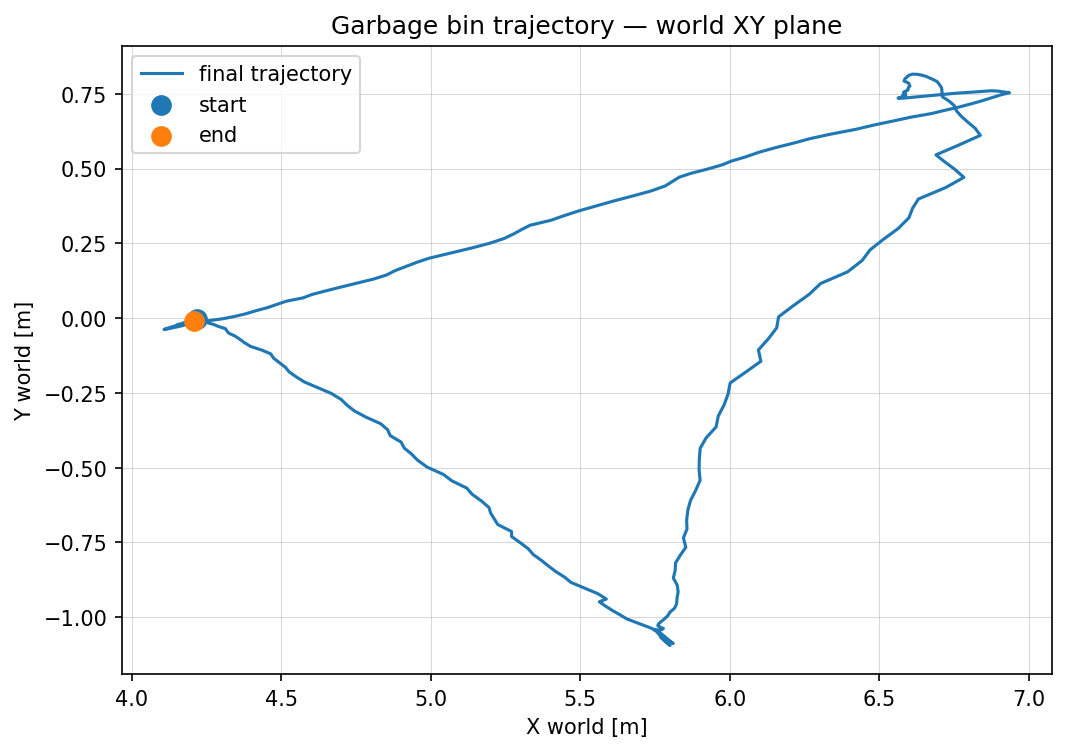
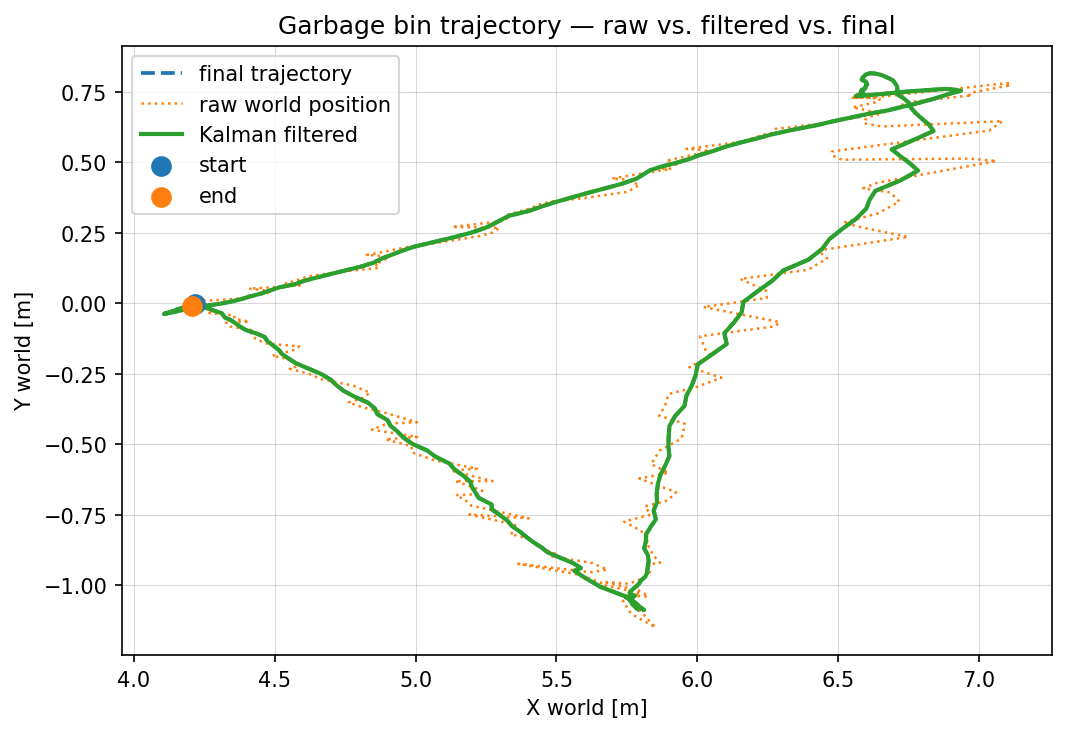
kalman works_

diff --git a/track_bin.py b/track_bin.py
@@ -195,7 +195,7 @@ class PositionKalman:
 
     def __init__(self, dt: float = 1/30,
                  process_var: float = 2e-3,  # Q, process noise. lower Q means motion is smooth
-                 meas_var: float = 7e-2):    # R, measuremtn noise, higher R means measuremetns are noisy
+                 meas_var: float = 7e-2):    # R, measurement noise, higher R means measuremetns are noisy
         self.dt = dt
 
         # state vector: [x, y, z, vx, vy, vz]
@@ -335,6 +335,7 @@ def main():
 
     import os
     os.makedirs(os.path.dirname(args.output) or ".", exist_ok=True)
+    jitter_txt_path = os.path.join(os.path.dirname(args.output) or ".", "jitter_analysis.txt")
 
     trajectory = []
     raw_trajectory = []
@@ -494,12 +495,22 @@ def main():
 
     _save_trajectory_plot(trajectory, raw_trajectory, filtered_trajectory)
     print(f"\nDone. Results: {args.output}  |  trajectory.png")
+
     raw_std_x, raw_std_y = compute_jitter(raw_trajectory)
     filt_std_x, filt_std_y = compute_jitter(filtered_trajectory)
 
-    print("\nJITTER ANALYSIS:")
-    print(f"Raw   std: x={raw_std_x:.4f}, y={raw_std_y:.4f}")
-    print(f"Kalman std: x={filt_std_x:.4f}, y={filt_std_y:.4f}")
+    jitter_report = (
+        "JITTER ANALYSIS:\n"
+        f"Raw   std: x={raw_std_x:.4f}, y={raw_std_y:.4f}\n"
+        f"Kalman std: x={filt_std_x:.4f}, y={filt_std_y:.4f}\n"
+    )
+
+    print("\n" + jitter_report, end="")
+
+    with open(jitter_txt_path, "w") as f:
+        f.write(jitter_report)
+
+    print(f"Jitter analysis saved to {jitter_txt_path}")
 
 
 
@@ -508,56 +519,49 @@ def main():
 def _save_trajectory_plot(trajectory: list,
                           raw_trajectory: list | None = None,
                           filtered_trajectory: list | None = None):
-    
     """
-    Generate top-down 2D plot of bin trajectory in world XY plane.
-    Mark the 3 stop positions. Save as trajectory.png.
-    Load waypoints.json if available to overlay tape marker positions.
+    Generate one top-down 2D plot in world XY plane.
+    Save only trajectory.png, containing:
+      - final trajectory
+      - raw trajectory
+      - Kalman filtered trajectory
+      - start/end markers
     """
-
     import matplotlib.pyplot as plt
 
     if not trajectory:
         print("No trajectory data — skipping plot.")
         return
 
-    xs, ys = zip(*trajectory)
     fig, ax = plt.subplots(figsize=(8, 6))
-    ax.plot(xs, ys, linewidth=1.5, label="final trajectory")
+
+    # final output trajectory (includes occlusion predictions if any)
+    xs, ys = zip(*trajectory)
+    ax.plot(xs, ys, linestyle="--", linewidth=1.8, label="final trajectory")
+
+    # raw → dotted
+    if raw_trajectory:
+        rx, ry = zip(*raw_trajectory)
+        ax.plot(rx, ry, linestyle=":", linewidth=1.2, label="raw world position")
+
+    # Kalman → solid
+    if filtered_trajectory:
+        fx, fy = zip(*filtered_trajectory)
+        ax.plot(fx, fy, linewidth=2.0, label="Kalman filtered")
+
     ax.scatter(xs[0], ys[0], s=80, zorder=5, label="start")
     ax.scatter(xs[-1], ys[-1], s=80, zorder=5, label="end")
 
-    # If you have estimated waypoint world coordinates, plot them here:
-    # estimated_stops = [(x1,y1), (x2,y2), (x3,y3)]
-    # ax.scatter(*zip(*estimated_stops), s=140, marker='*',
-    #            color='orange', zorder=6, label='estimated GT stops')
-
     ax.set_xlabel("X world [m]")
     ax.set_ylabel("Y world [m]")
-    ax.set_title("Garbage bin trajectory — world XY plane")
+    ax.set_title("Garbage bin trajectory — raw vs. filtered vs. final")
     ax.legend()
     ax.set_aspect("equal")
     ax.grid(True, linewidth=0.5, alpha=0.5)
+
     fig.savefig("trajectory.png", dpi=150, bbox_inches="tight")
     plt.close(fig)
     print("trajectory.png saved.")
-
-    if raw_trajectory and filtered_trajectory:
-        rx, ry = zip(*raw_trajectory)
-        fx, fy = zip(*filtered_trajectory)
-
-        fig, ax = plt.subplots(figsize=(8, 6))
-        ax.plot(rx, ry, label="raw world position")
-        ax.plot(fx, fy, label="kalman filtered")
-        ax.set_xlabel("X world [m]")
-        ax.set_ylabel("Y world [m]")
-        ax.set_title("Raw vs. Kalman-filtered world trajectory")
-        ax.legend()
-        ax.set_aspect("equal")
-        ax.grid(True, linewidth=0.5, alpha=0.5)
-        fig.savefig("kalman_xy.png", dpi=150, bbox_inches="tight")
-        plt.close(fig)
-        print("kalman_xy.png saved.")
 
 if __name__ == "__main__":
     main()

diff --git a/README.md b/README.md
@@ -1,7 +1,8 @@
+command: bash run.sh --video "Input sample.mp4" --calib calib.json --kalman
+
 COCO does not have trash can / garbage bin
 
-training
-
+training.
 occluded
 
 augmentation
@@ -12,4 +13,7 @@ help from external roboflow dataset
 resize for edge employment
 
 Tuning of Q and R:
-With the prior knowledge that the motion itself would be smooth, 
+I tuned `process_var`(Q) and `meas_var`(R) in Klaman filter. With the prior knowledge that the motion itself would be smooth, I tend to decrease process_var as lower Q means less process noise and the motion is smooth. As localization's source is from detection, the measuremtns are noisy. Hence, I tend to increase meas_var as higher R means measuremetns are noisy
+
+
+ground truth comparison
